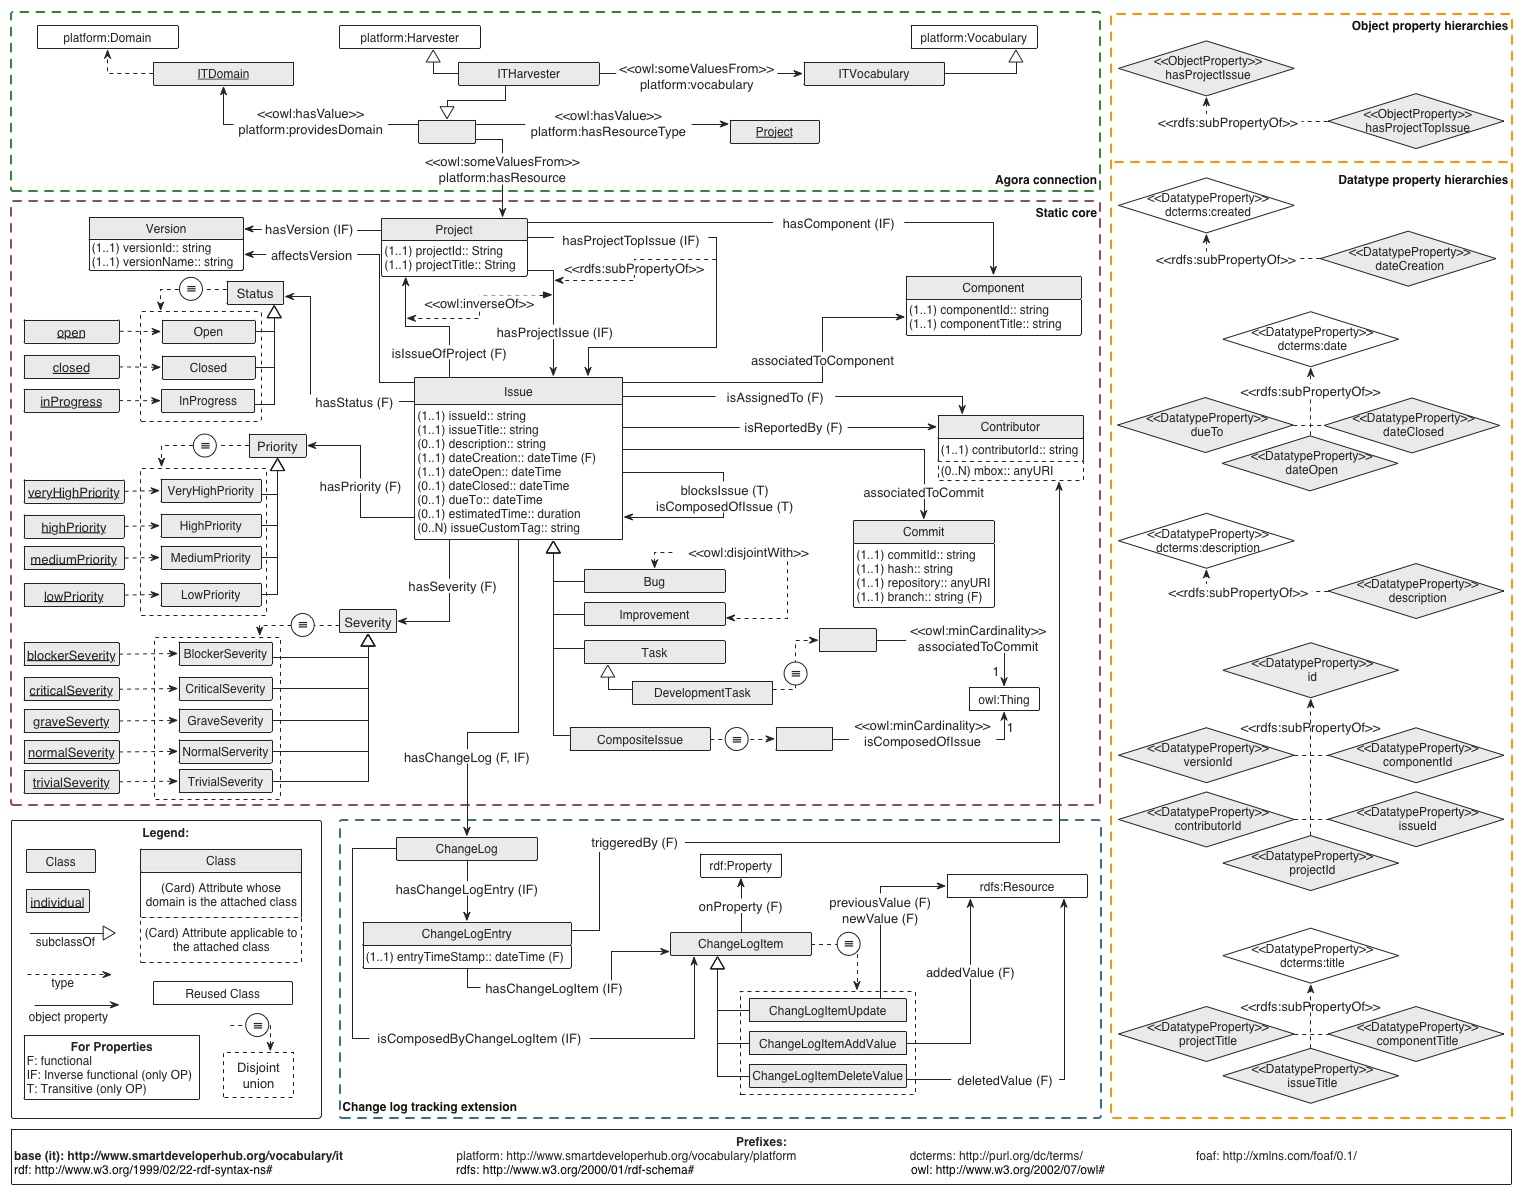
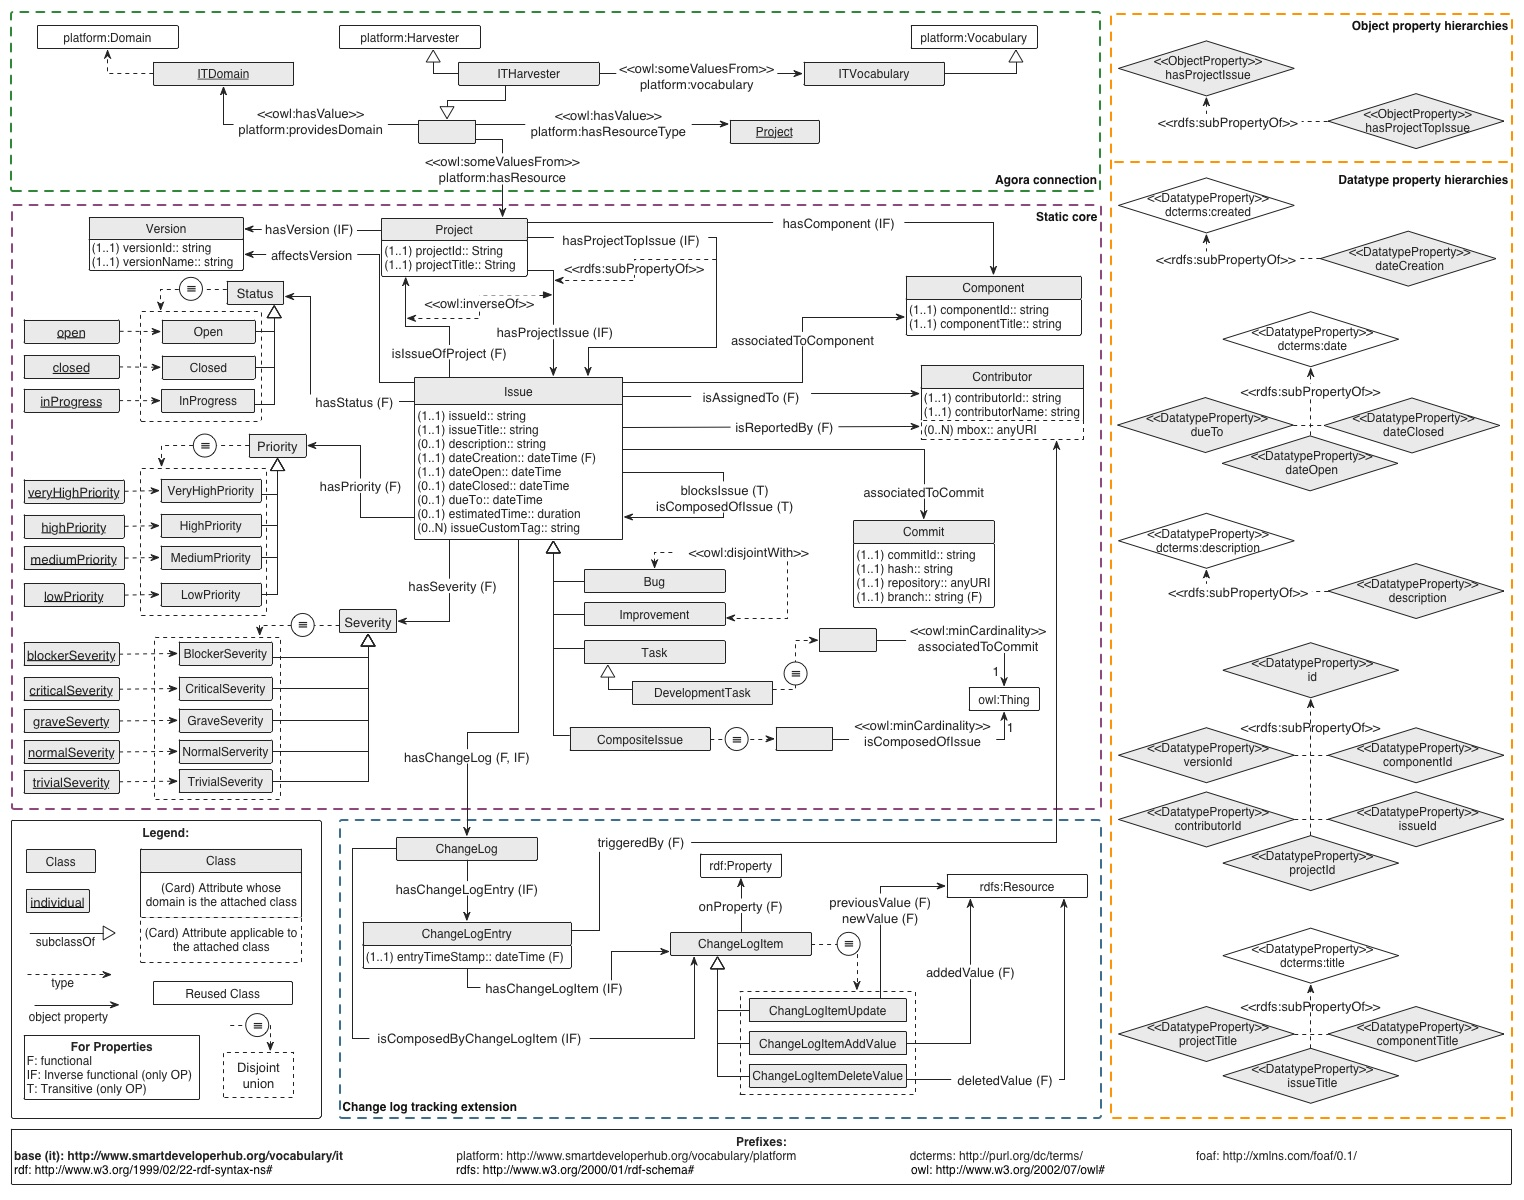
added contributorName

diff --git a/src/main/resources/documentation/v1/it/sections/crossref-en.html b/src/main/resources/documentation/v1/it/sections/crossref-en.html
@@ -445,13 +445,13 @@ A commit has to have one and only one hash, repository and branch.</span>
             <sup class="type-dp" title="data property">dp</sup> 
             <span class="logic">exactly</span> 1</dd>
          <dd>
-            <a href="#hash"
-               title="http://www.smartdeveloperhub.org/vocabulary/it#hash">hash</a>
+            <a href="#commitId"
+               title="http://www.smartdeveloperhub.org/vocabulary/it#commitId">commit identifier</a>
             <sup class="type-dp" title="data property">dp</sup> 
             <span class="logic">exactly</span> 1</dd>
          <dd>
-            <a href="#commitId"
-               title="http://www.smartdeveloperhub.org/vocabulary/it#commitId">commit identifier</a>
+            <a href="#hash"
+               title="http://www.smartdeveloperhub.org/vocabulary/it#hash">hash</a>
             <sup class="type-dp" title="data property">dp</sup> 
             <span class="logic">exactly</span> 1</dd>
          <dd>
@@ -492,13 +492,13 @@ A commit has to have one and only one hash, repository and branch.</span>
       <dl class="description">
          <dt>has super-classes</dt>
          <dd>
-            <a href="#componentTitle"
-               title="http://www.smartdeveloperhub.org/vocabulary/it#componentTitle">component title</a>
+            <a href="#componentId"
+               title="http://www.smartdeveloperhub.org/vocabulary/it#componentId">component identifier</a>
             <sup class="type-dp" title="data property">dp</sup> 
             <span class="logic">exactly</span> 1</dd>
          <dd>
-            <a href="#componentId"
-               title="http://www.smartdeveloperhub.org/vocabulary/it#componentId">component identifier</a>
+            <a href="#componentTitle"
+               title="http://www.smartdeveloperhub.org/vocabulary/it#componentTitle">component title</a>
             <sup class="type-dp" title="data property">dp</sup> 
             <span class="logic">exactly</span> 1</dd>
          <dt>is in domain of</dt>
@@ -561,10 +561,17 @@ A commit has to have one and only one hash, repository and branch.</span>
                title="http://www.smartdeveloperhub.org/vocabulary/it#contributorId">contributor identifier</a>
             <sup class="type-dp" title="data property">dp</sup> 
             <span class="logic">exactly</span> 1</dd>
+         <dd>
+            <a href="#contributorName"
+               title="http://www.smartdeveloperhub.org/vocabulary/it#contributorName">contributor name</a>
+            <sup class="type-dp" title="data property">dp</sup> 
+            <span class="logic">exactly</span> 1</dd>
          <dt>is in domain of</dt>
          <dd>
             <a href="#contributorId"
                title="http://www.smartdeveloperhub.org/vocabulary/it#contributorId">contributor identifier</a>
+            <sup class="type-dp" title="data property">dp</sup>, <a href="#contributorName"
+               title="http://www.smartdeveloperhub.org/vocabulary/it#contributorName">contributor name</a>
             <sup class="type-dp" title="data property">dp</sup>
          </dd>
          <dt>is in range of</dt>
@@ -761,18 +768,13 @@ A commit has to have one and only one hash, repository and branch.</span>
       <dl class="description">
          <dt>has super-classes</dt>
          <dd>
-            <a href="#http://www.smartdeveloperhub.org/vocabulary/issueId"
-               title="http://www.smartdeveloperhub.org/vocabulary/issueId">issue identifier</a>
-            <sup class="type-dp" title="data property">dp</sup> 
-            <span class="logic">exactly</span> 1</dd>
-         <dd>
             <a href="#isReportedBy"
                title="http://www.smartdeveloperhub.org/vocabulary/it#isReportedBy">is reported by</a>
             <sup class="type-op" title="object property">op</sup> 
             <span class="logic">exactly</span> 1</dd>
          <dd>
-            <a href="#dateCreation"
-               title="http://www.smartdeveloperhub.org/vocabulary/it#dateCreation">date creation</a>
+            <a href="#http://www.smartdeveloperhub.org/vocabulary/issueId"
+               title="http://www.smartdeveloperhub.org/vocabulary/issueId">issue identifier</a>
             <sup class="type-dp" title="data property">dp</sup> 
             <span class="logic">exactly</span> 1</dd>
          <dd>
@@ -786,10 +788,10 @@ A commit has to have one and only one hash, repository and branch.</span>
             <sup class="type-dp" title="data property">dp</sup> 
             <span class="logic">max</span> 1</dd>
          <dd>
-            <a href="#issueTitle"
-               title="http://www.smartdeveloperhub.org/vocabulary/it#issueTitle">issue title</a>
+            <a href="#description"
+               title="http://www.smartdeveloperhub.org/vocabulary/it#description">issue description</a>
             <sup class="type-dp" title="data property">dp</sup> 
-            <span class="logic">exactly</span> 1</dd>
+            <span class="logic">max</span> 1</dd>
          <dd>
             <a href="#estimatedTime"
                title="http://www.smartdeveloperhub.org/vocabulary/it#estimatedTime">estimated time</a>
@@ -801,10 +803,15 @@ A commit has to have one and only one hash, repository and branch.</span>
             <sup class="type-dp" title="data property">dp</sup> 
             <span class="logic">exactly</span> 1</dd>
          <dd>
-            <a href="#description"
-               title="http://www.smartdeveloperhub.org/vocabulary/it#description">issue description</a>
+            <a href="#dateCreation"
+               title="http://www.smartdeveloperhub.org/vocabulary/it#dateCreation">date creation</a>
             <sup class="type-dp" title="data property">dp</sup> 
-            <span class="logic">max</span> 1</dd>
+            <span class="logic">exactly</span> 1</dd>
+         <dd>
+            <a href="#issueTitle"
+               title="http://www.smartdeveloperhub.org/vocabulary/it#issueTitle">issue title</a>
+            <sup class="type-dp" title="data property">dp</sup> 
+            <span class="logic">exactly</span> 1</dd>
          <dt>has sub-classes</dt>
          <dd>
             <a href="#Bug"
@@ -942,19 +949,19 @@ A commit has to have one and only one hash, repository and branch.</span>
          </dd>
          <dd>
             <span class="dotted"
-                  title="http://www.smartdeveloperhub.org/vocabulary/platform#hasResourceType">has resource type</span>
-            <sup class="type-op" title="object property">op</sup> 
-            <span class="logic">value</span> 
-            <a href="#Project"
-               title="http://www.smartdeveloperhub.org/vocabulary/it#Project">Project</a>
-         </dd>
-         <dd>
-            <span class="dotted"
                   title="http://www.smartdeveloperhub.org/vocabulary/platform#providesDomain">provides domain</span>
             <sup class="type-op" title="object property">op</sup> 
             <span class="logic">value</span> 
             <a href="#ITDomain"
                title="http://www.smartdeveloperhub.org/vocabulary/it#ITDomain">i t domain</a>
+         </dd>
+         <dd>
+            <span class="dotted"
+                  title="http://www.smartdeveloperhub.org/vocabulary/platform#hasResourceType">has resource type</span>
+            <sup class="type-op" title="object property">op</sup> 
+            <span class="logic">value</span> 
+            <a href="#Project"
+               title="http://www.smartdeveloperhub.org/vocabulary/it#Project">Project</a>
          </dd>
       </dl>
    </div>
@@ -1129,13 +1136,13 @@ A commit has to have one and only one hash, repository and branch.</span>
       <dl class="description">
          <dt>has super-classes</dt>
          <dd>
-            <a href="#projectId"
-               title="http://www.smartdeveloperhub.org/vocabulary/it#projectId">project identifier</a>
+            <a href="#projectTitle"
+               title="http://www.smartdeveloperhub.org/vocabulary/it#projectTitle">project title</a>
             <sup class="type-dp" title="data property">dp</sup> 
             <span class="logic">exactly</span> 1</dd>
          <dd>
-            <a href="#projectTitle"
-               title="http://www.smartdeveloperhub.org/vocabulary/it#projectTitle">project title</a>
+            <a href="#projectId"
+               title="http://www.smartdeveloperhub.org/vocabulary/it#projectId">project identifier</a>
             <sup class="type-dp" title="data property">dp</sup> 
             <span class="logic">exactly</span> 1</dd>
          <dt>is in domain of</dt>
@@ -2227,6 +2234,10 @@ This property allows asking for the change items that composed a change log skip
             title="http://www.smartdeveloperhub.org/vocabulary/it#contributorId">contributor identifier</a>
       </li>
       <li>
+         <a href="#contributorName"
+            title="http://www.smartdeveloperhub.org/vocabulary/it#contributorName">contributor name</a>
+      </li>
+      <li>
          <a href="#dateClosed"
             title="http://www.smartdeveloperhub.org/vocabulary/it#dateClosed">date close</a>
       </li>
@@ -2435,6 +2446,31 @@ This property allows asking for the change items that composed a change log skip
                   title="http://www.smartdeveloperhub.org/vocabulary/it#id">resource identifier</a>
                <sup class="type-dp" title="data property">dp</sup>
             </dd>
+            <dt>has domain</dt>
+            <dd>
+               <a href="#Contributor"
+                  title="http://www.smartdeveloperhub.org/vocabulary/it#Contributor">Contributor</a>
+               <sup class="type-c" title="class">c</sup>
+            </dd>
+            <dt>has range</dt>
+            <dd>
+               <span class="dotted" title="http://www.w3.org/2001/XMLSchema#string">string</span>
+            </dd>
+         </dl>
+      </div>
+   </div>
+   <div class="entity" id="contributorName">
+      <h3>contributor name<sup class="type-dp" title="data property">dp</sup>
+         <span class="backlink"> back to <a href="#toc">ToC</a> or <a href="#dataproperties">Data Property ToC</a>
+         </span>
+      </h3>
+      <p>
+         <strong>IRI:</strong> http://www.smartdeveloperhub.org/vocabulary/it#contributorName</p>
+      <div class="comment">
+         <span class="markdown">name of a given contributor</span>
+      </div>
+      <div class="description">
+         <dl>
             <dt>has domain</dt>
             <dd>
                <a href="#Contributor"
@@ -3004,11 +3040,6 @@ This property allows asking for the change items that composed a change log skip
          </a>
       </li>
       <li>
-         <a href="#http://www.smartdeveloperhub.org/vocabulary/it" title="http://www.smartdeveloperhub.org/vocabulary/it">
-            <span>it</span>
-         </a>
-      </li>
-      <li>
          <a href="#lowPriority"
             title="http://www.smartdeveloperhub.org/vocabulary/it#lowPriority">
             <span>low priority</span>
@@ -3175,14 +3206,6 @@ This property allows asking for the change items that composed a change log skip
             <sup class="type-c" title="class">c</sup>
          </dd>
       </dl>
-   </div>
-   <div class="entity" id="http://www.smartdeveloperhub.org/vocabulary/it">
-      <h3>it<sup class="type-ni" title="named individual">ni</sup>
-         <span class="backlink"> back to <a href="#toc">ToC</a> or <a href="#namedindividuals">Named Individual ToC</a>
-         </span>
-      </h3>
-      <p>
-         <strong>IRI:</strong> http://www.smartdeveloperhub.org/vocabulary/it</p>
    </div>
    <div class="entity" id="lowPriority">
       <h3>low priority<sup class="type-ni" title="named individual">ni</sup>

diff --git a/src/main/resources/documentation/v1/it/sections/overview-en.html b/src/main/resources/documentation/v1/it/sections/overview-en.html
@@ -27,7 +27,6 @@
 
 -->
 <h2>2. it: Overview <span class="backlink"> back to <a href="#toc">ToC</a></span></h2>
-<p>Overview of the ontology goes here: a few sentences explaining the main concepts of the ontology</p>
 <h4>Classes</h4>
 <ul class="hlist">
    <li>
@@ -299,6 +298,10 @@
          title="http://www.smartdeveloperhub.org/vocabulary/it#contributorId">contributor identifier</a>
    </li>
    <li>
+      <a href="#contributorName"
+         title="http://www.smartdeveloperhub.org/vocabulary/it#contributorName">contributor name</a>
+   </li>
+   <li>
       <a href="#dateClosed"
          title="http://www.smartdeveloperhub.org/vocabulary/it#dateClosed">date close</a>
    </li>
@@ -411,11 +414,6 @@
       <a href="#issueInProgress"
          title="http://www.smartdeveloperhub.org/vocabulary/it#issueInProgress">
          <span>issue in progress</span>
-      </a>
-   </li>
-   <li>
-      <a href="#http://www.smartdeveloperhub.org/vocabulary/it" title="http://www.smartdeveloperhub.org/vocabulary/it">
-         <span>it</span>
       </a>
    </li>
    <li>

diff --git a/src/main/resources/documentation/v1/it/index-en.html b/src/main/resources/documentation/v1/it/index-en.html
@@ -59,7 +59,7 @@ function loadHash() {
 <dl><dt>Imported Ontologies:</dt>
 <dd><a property="owl:imports schema:mentions" resource="http://www.smartdeveloperhub.org/vocabulary/platform" href="http://www.smartdeveloperhub.org/vocabulary/platform">http://www.smartdeveloperhub.org/vocabulary/platform</a></dd></dl>
 
-<dl><dt>Download serialization:</dt><dd><a href="ontology.owl">TURTLE</a></dd></dl><dl>This work is licensed under a license: <a rel="license" href="http://www.apache.org/licenses/LICENSE-2.0">Apache License Version 2.0</a>.</dl>
+<dl><dt>Download serialization:</dt><dd><a href="ontology.owl">TURTLE</a></dd></dl><dl>This work is licensed under a license: <a rel="license" href="http://www.apache.org/licenses/LICENSE-2.0">Apapche 2.0</a>.</dl>
 <span property="dc:license" resource="http://www.apache.org/licenses/LICENSE-2.0"></span>
 <hr/>
 </div>
